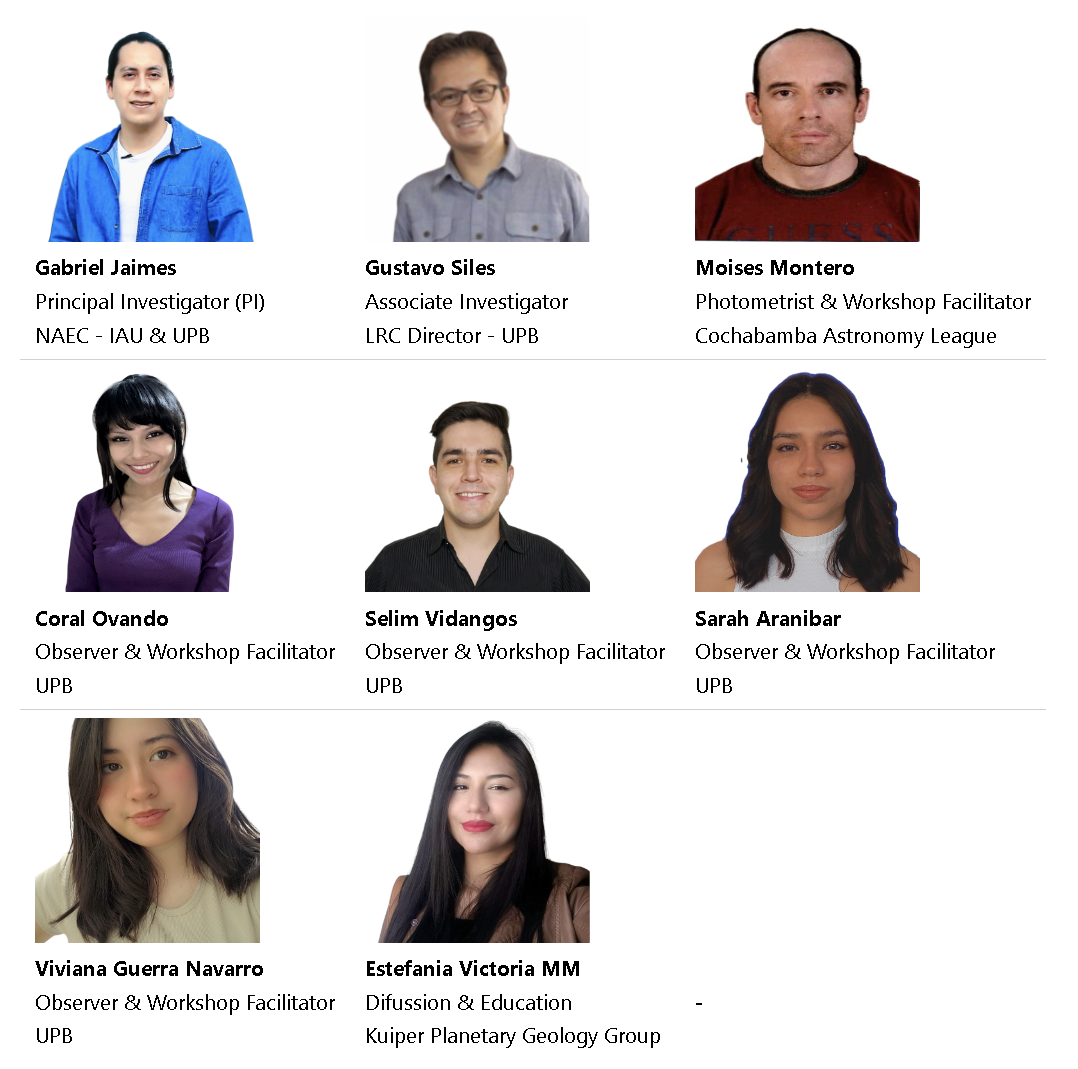
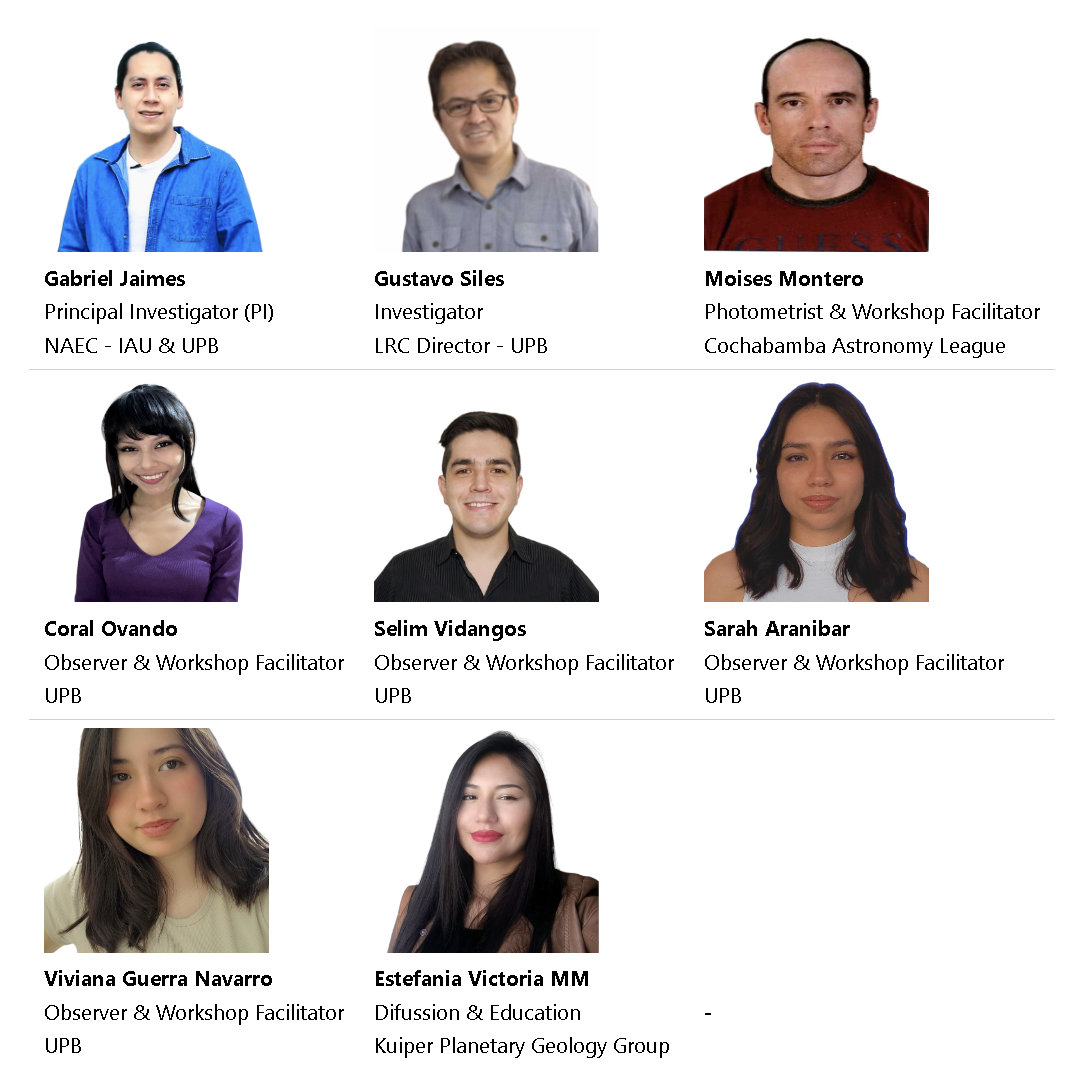
A

diff --git a/docs/4.TheTeam.md b/docs/4.TheTeam.md
@@ -15,7 +15,7 @@ The development team is made up of professionals with experience in the area, gr
 <table>
   <tr>
     <td><img src="im/GJaimes_p.jpg" alt="Gabriel Jaimes" width="150" height="150"/><br><strong>Gabriel Jaimes</strong><br>Principal Investigator (PI)<br>NAEC - IAU & UPB</td>
-    <td><img src="im/GustavoSiles.jpg" alt="Gustavo Siles" width="150" height="150"/><br><strong>Gustavo Siles</strong><br>Associate Investigator<br>LRC Director - UPB</td>
+    <td><img src="im/GustavoSiles.jpg" alt="Gustavo Siles" width="150" height="150"/><br><strong>Gustavo Siles</strong><br>Investigator<br>LRC Director - UPB</td>
     <td><img src="im/Moises_Montero.jpg" alt="Moises Montero" width="150" height="150"/><br><strong>Moises Montero</strong><br>Photometrist & Workshop Facilitator<br>Cochabamba Astronomy League</td>
   </tr>
   <tr>
